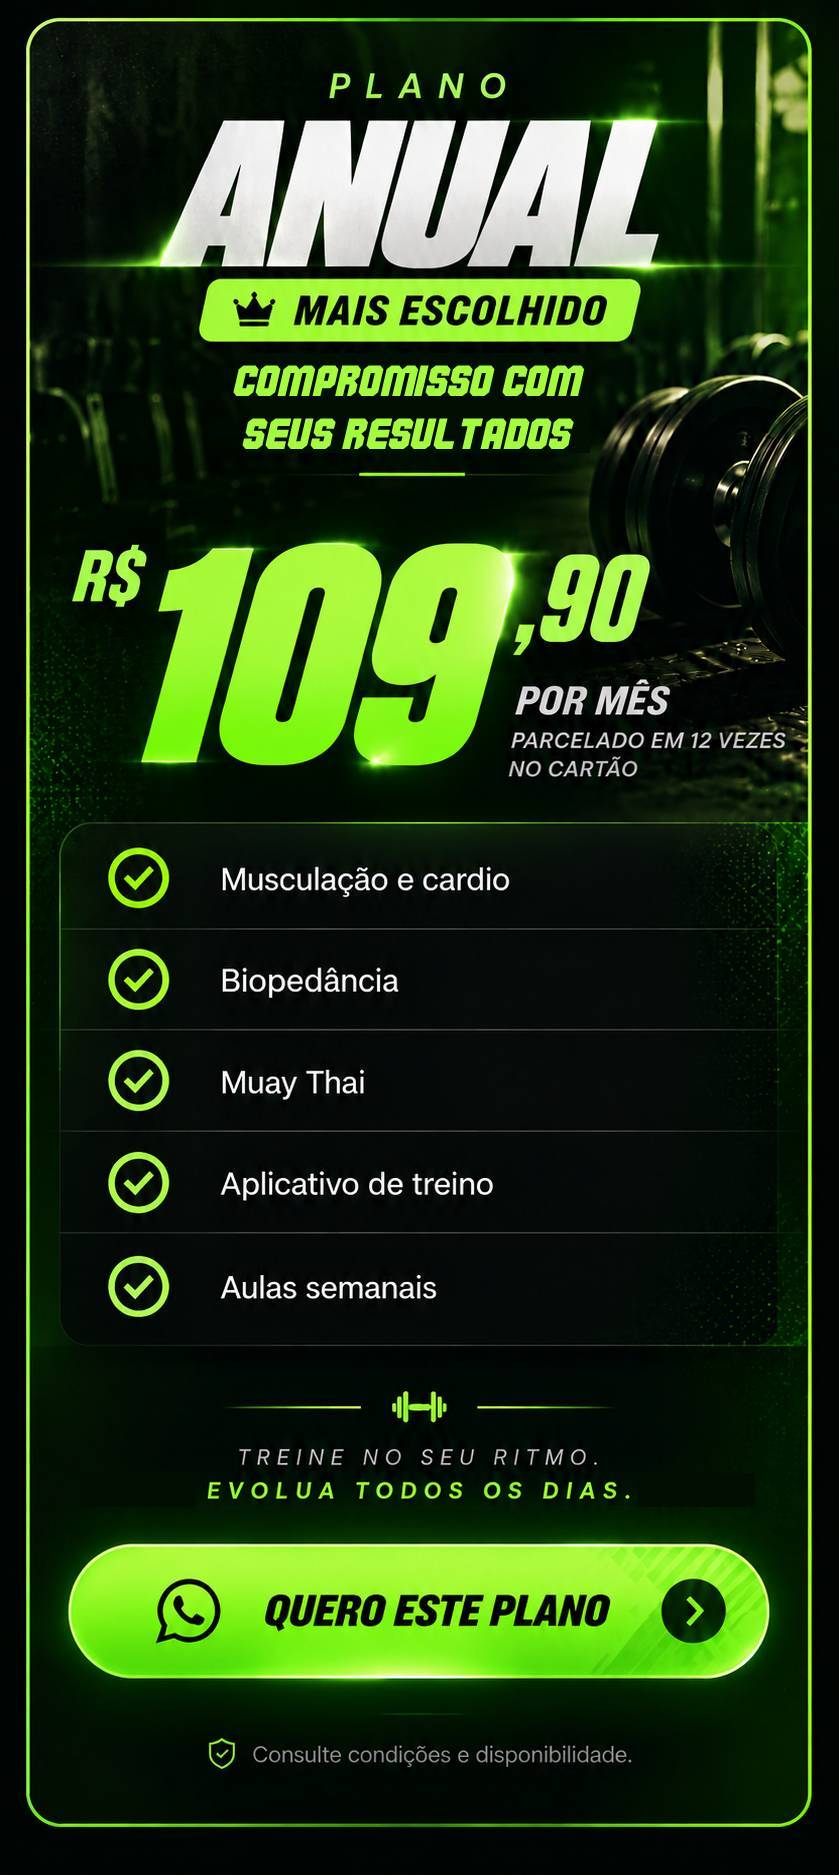
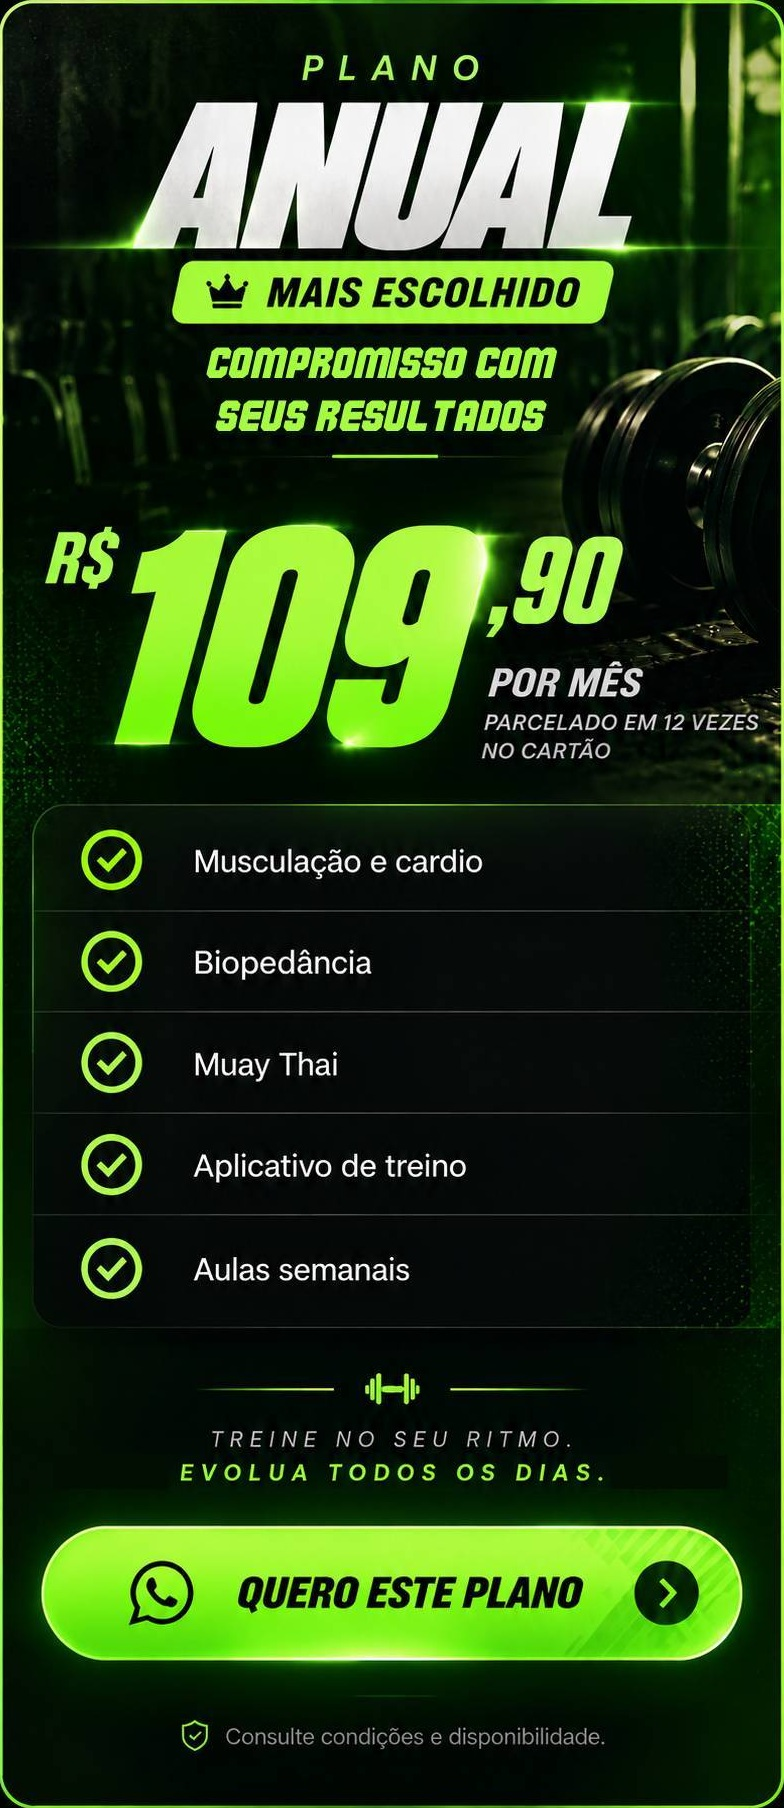
Ajustes dos planos

diff --git a/index.html b/index.html
@@ -411,7 +411,11 @@
                    
                 <div class="plan-card-mensal">
 
-                    <a href="https://wa.me/5511953275996?text=Oi%2C%20tudo%20bem%3F%0AGostaria%20de%20receber%20informa%C3%A7%C3%B5es%20sobre%20os%20Planos%3F" target="_blank"><img src="assets/img/plan1.jpg"></a>
+                    <a href="https://wa.me/5511953275996?text=Oi%2C%20tudo%20bem%3F%0AGostaria%20de%20receber%20informa%C3%A7%C3%B5es%20sobre%20o%20plano%20anual%20que%20est%C3%A1%20no%20site%21"
+                    target="_blank"
+                    rel="noopener noreferrer">
+                    <img src="assets/img/plan1.jpg" alt="Plano Mensal Sparta Fitness">
+</a>
                 
                 </div>
 
@@ -421,7 +425,11 @@
 
                 <div class="plan-card-anual">
 
-                    <a href="https://wa.me/5511953275996?text=Oi%2C%20tudo%20bem%3F%0AGostaria%20de%20receber%20informa%C3%A7%C3%B5es%20sobre%20os%20Planos%3F" target="_blank"><img src="assets/img/plan3.jpg"></a>
+                    <a href="https://wa.me/5511953275996?text=Oi%2C%20tudo%20bem%3F%0AGostaria%20de%20informa%C3%A7%C3%B5es%20sobre%20o%20plano%20recorrente%20que%20est%C3%A1%20no%20site%21"
+                    target="_blank"
+                    rel="noopener noreferrer">
+                    <img src="assets/img/plan3.jpg" alt="Plano Anual Sparta Fitness">
+</a>
                 
                 </div>
 
@@ -430,7 +438,12 @@
 
                     <div class="plan-card-recorrente">
 
-                    <a href="https://wa.me/5511953275996?text=Oi%2C%20tudo%20bem%3F%0AGostaria%20de%20receber%20informa%C3%A7%C3%B5es%20sobre%20os%20Planos%3F" target="_blank"><img src="assets/img/plan2.jpg"></a>
+                        <a href="https://wa.me/5511953275996?text=Oi%2C%20tudo%20bem%3F%0AQuero%20informa%C3%A7%C3%B5es%20sobre%20o%20plano%20mensal%20de%20109%2C90%20que%20est%C3%A1%20no%20site%21"
+                        target="_blank"
+                        rel="noopener noreferrer">
+                        <img src="assets/img/plan2.jpg" alt="Plano Recorrente Sparta Fitness">
+                        </a> 
+
                 
                     </div>
 
@@ -1075,14 +1088,17 @@
 
                     <a href="https://wa.me/5511985071279" target="_blank">
                         <strong>
-                        @FabioMedeirosWebSite
+                        @FabioMedeiros.dev
                         </strong>
-                    </a>
-                    
-                    <p>
+                        <p>
                         WhatsApp:
                         55 11 985071279
-                    </p>
+                        </p>
+                        <p> Sites - Plataformas de Cursos - Sistemas Web </p>
+                        
+                    </a>
+                    
+                    
 
                 </div>
 

diff --git a/assets/css/style.css b/assets/css/style.css
@@ -539,6 +539,7 @@ section {
 
 .plans {
     display: flex;
+    gap: 30px;
     justify-content: center;
     align-items: center;
     gap: 5px;
@@ -546,8 +547,10 @@ section {
 }
 
 .plan-card-mensal {
+    gap: 30px;
     width: 30%;
     height: 10%;
+    border-radius: 30px;
     display: flex;
     flex-direction: column;
     align-items: center;
@@ -556,6 +559,7 @@ section {
 }
 
 .plan-card-anual {
+    gap: 30px;
     width: 30%;
     height: 20%;
     display: flex;
@@ -571,6 +575,30 @@ section {
     flex-direction: column;
     align-items: center;
     justify-content: center;
+}
+
+.plan-card-mensal img:hover {
+    transform: scale(1.05);
+    border-radius: 10px;
+    transition: transform 0.5s ease;
+    box-shadow: rgba(57, 255, 20, 0.8) 0px 0px 15px 0px;
+    transform: scale(1.05);
+}
+
+.plan-card-anual img:hover {
+    transform: scale(1.05);
+    border-radius: 10px;
+    transition: transform 0.5s ease;
+    box-shadow: rgba(57, 255, 20, 0.8) 0px 0px 15px 0px;
+    transform: scale(1.05);
+}
+
+.plan-card-recorrente img:hover {
+    transform: scale(1.05);
+    border-radius: 10px;
+    transition: transform 0.5s ease;
+    box-shadow: rgba(57, 255, 20, 0.8) 0px 0px 15px 0px;
+    transform: scale(1.05);
 }
 
 /* =========================================================
